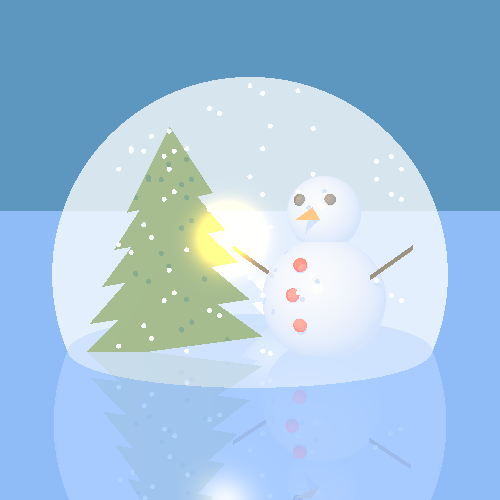
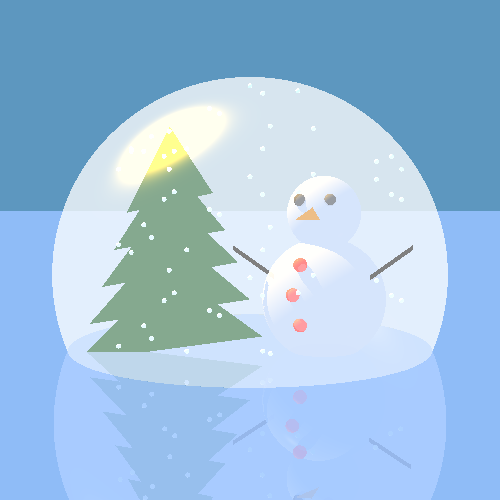
update pic - spot

diff --git a/unittests/finalImages/imageLevel7Tests.java b/unittests/finalImages/imageLevel7Tests.java
@@ -270,8 +270,8 @@ public class imageLevel7Tests {
                         .setMaterial(new Material().setkD(0.4).setkS(0.3).setnShininess(100).setkT(0.3)));
 
 
-        scene.lights.add( //
-                new SpotLight(new Color(1000, 600, 0), new Point(-250, 400, 1000), new Vector(-1, -1, -2)) //
+        scene.lights.add( //new Point(-250, 400, -300), new Vector(250, -410, 250)
+                new SpotLight(new Color(1000, 600, 0), new Point(-250, 400, -100), new Vector(250, -410, 50)) //
                         .setkL(0.0004).setkQ(0.0000006));
 
 
